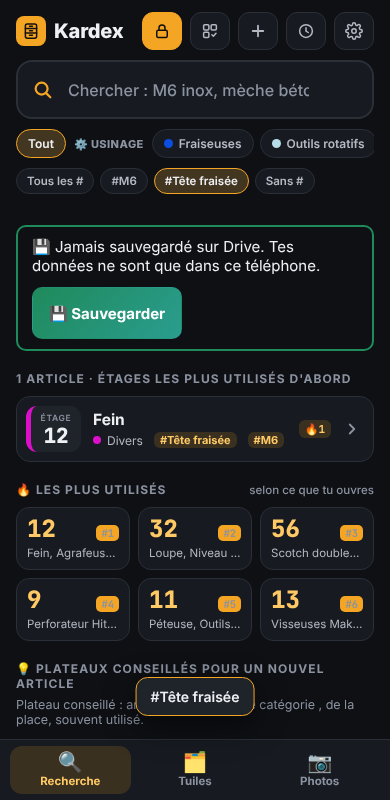
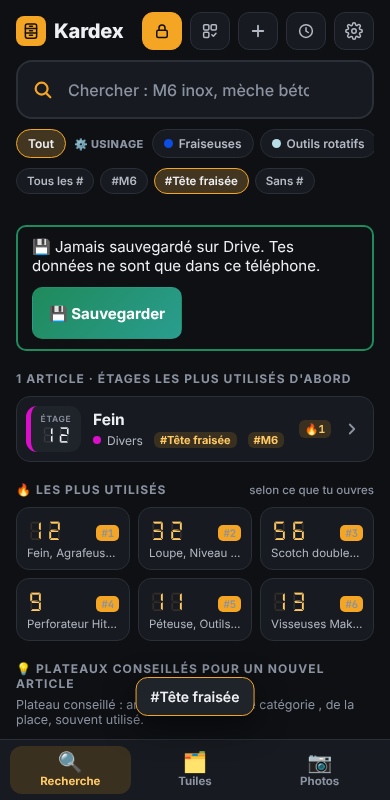
Kardex v1.6.1 : chiffres sans trait, roulette sans petit chiffre, Paramètres expliqués
- Plus de ligne au milieu des chiffres de l'afficheur (elle avait l'air de les biffer) ; meta color-scheme dark
- Roulette des Photos : le curseur n'a plus de numéro, seul le grand chiffre de la bulle reste
- Paramètres : « Remettre le fichier d'origine » retiré, « Remettre le compteur à zéro » expliqué

Claude-Session: https://claude.ai/code/session_011bhy27i19H9cwXxkZPYtg4

diff --git a/kardex/index.html b/kardex/index.html
@@ -2,6 +2,7 @@
 <html lang="fr">
 <head>
 <meta charset="utf-8">
+<meta name="color-scheme" content="dark">
 <meta name="viewport" content="width=device-width,initial-scale=1,viewport-fit=cover">
 <title>Kardex</title>
 <meta name="theme-color" content="#0E1014">
@@ -476,7 +477,6 @@ body.fpon{overflow:hidden}
 .nx.pave>span{aspect-ratio:1}
 .nx.aff .on{fill:currentColor;filter:drop-shadow(0 0 1.5px color-mix(in srgb,currentColor 75%,transparent))}
 .nx.aff .off{fill:currentColor;opacity:.12}
-.nx.aff>span::after{content:"";position:absolute;left:-5%;right:-5%;top:50%;height:1px;background:rgba(0,0,0,.55)}
 .nx>span.flap{animation:nxFlap .17s ease-in-out}
 @keyframes nxFlap{0%{transform:perspective(60px) rotateX(0)}45%{transform:perspective(60px) rotateX(-82deg);filter:brightness(2)}100%{transform:perspective(60px) rotateX(0)}}
 .tr.arr .nx{animation:nxGlow .7s ease}
@@ -490,8 +490,7 @@ body.fpon{overflow:hidden}
 @container (max-height:44px){.tr .n{inset:0 0 7px}.tr .n b{font-size:min(80cqh,40cqw)}.tr .seg{position:absolute;left:6px;right:6px;bottom:3px;height:4px}}
 .fl .nx{height:.86em}
 .tp .n b .nx{height:.9em}
-.rth .nx{height:15px}
-.rth{min-width:34px;height:26px}
+.rth{min-width:0;width:30px;height:8px;border-radius:4px}
 .rbub b .nx{height:44px}
 .fpm .ph .big .nx{height:28px}
 .sl .big b .nx{height:30px}
@@ -762,7 +761,7 @@ const Sauvegarde = (() => {
 const CATS=[[1, "Divers", "#db0fca"], [2, "Stock de Fraise", "#DDD9C3"], [4, "Tournage", "#DBEEF4"], [6, "Taraud & Alésoirs", "#E6E0EC"], [10, "Outils rotatifs", "#B7DEE8"], [13, "VIS/RONDELLES Inox", "#00B0F0"], [14, "VIS/RONDELLES Acier", "#58B600"], [15, "Visseries (bois/Torx/etc…)", "#FFFF00"], [99, "Fraiseuses", "#0C4DE4"], [100, "Consommable de montage", "#9F0EE1"], [101, "Machine à Batterie", "#09DC2C"], [102, "Machine 220V", "#3A8830"], [103, "Levage", "#08f7e7"], [105, "Pneumatique", "#3EB3D0"], [106, "Percages/Foret", "#8662ea"], [107, "Cliquets", "#ff0080"], [108, "Outils à mains", "#00FA79"], [109, "Metrologie d'atelier", "#E4F21C"]];
 const ARTS=[[119, "Laboratoire", 1, 1], [415, "M6", 13, 39], [416, "M6", 14, 49], [417, "Loupe", 1, 32], [418, "Fraises Inox", 2, 2], [419, "Fraises à Rayon", 2, 2], [420, "Fraise en \"T\"", 2, 2], [421, "Fraises Aluminium", 2, 3], [422, "Chargeur Batteries", 102, 24], [423, "M5", 14, 48], [424, "Matériel de Tournage", 4, 14], [425, "Plaquettes", 4, 6], [426, "M10", 14, 51], [427, "M12", 14, 52], [428, "M14", 14, 52], [429, "M16", 14, 28], [430, "M24", 14, 28], [431, "M8", 14, 50], [433, "Rondelles M8", 14, 53], [434, "M4", 14, 47], [435, "M3", 14, 46], [436, "M1 à M2.5", 14, 45], [437, "Plateau magnétique", 99, 15], [438, "Matériel fraiseuses", 99, 15], [439, "Equerre de fraisage", 99, 36], [440, "M5", 13, 37], [441, "M8", 13, 40], [442, "M10", 13, 41], [443, "M4", 13, 38], [444, "M4 Poulets", 13, 38], [445, "Péteuse", 105, 11], [446, "Outils pneumatiques", 105, 11], [447, "Reserve scotch", 100, 25], [448, "DMU 50", 99, 25], [449, "M12", 13, 42], [450, "M14", 13, 42], [451, "Fils ressort Inox", 13, 42], [452, "Billes INOX", 13, 42], [453, "Goupilles Inox", 100, 42], [454, "Ressorts Inox", 100, 42], [455, "M2 à M3", 13, 29], [456, "NEF 400", 4, 54], [457, "Tasseau FP4", 99, 54], [458, "Dremel® 12V", 101, 20], [459, "Dremel 220V😂", 102, 20], [460, "Thermogun", 102, 20], [462, "Crayon électrique", 102, 20], [463, "Fer à souder", 102, 24], [464, "Rivet pop", 100, 33], [465, "Tubtara", 100, 33], [466, "Tarauds M2 à M10", 6, 21], [467, "Queues de cochon🐷", 6, 21], [468, "Scotch doubles face", 100, 56], [469, "Mini-Grip", 100, 56], [470, "Rubalise", 100, 56], [471, "Elastique", 100, 56], [472, "Clinquant", 100, 58], [473, "Cuivre Béryllium", 100, 58], [474, "O-ring", 100, 30], [475, "Brides métalliques", 100, 30], [476, "Joints", 100, 30], [477, "Span-Set® ", 103, 27], [478, "Torx", 15, 44], [479, "Vis à bois", 15, 44], [480, "Clous", 15, 44], [482, "M7", 15, 26], [483, "Goupilles Acier", 15, 55], [484, "Rivets", 15, 55], [485, "Bouterolle", 15, 55], [486, "cordes", 100, 56], [487, "Ficelles", 100, 56], [488, "Visseuses Makita", 101, 13], [489, "Meuleuse", 101, 13], [490, "Scie sabre", 102, 13], [491, "Perforateur + Aspir.", 101, 13], [492, "Sauteuse", 101, 13], [493, "Talkie-Walkie", 101, 24], [494, "Vis Amercaines", 15, 26], [495, "Spécial", 15, 26], [496, "Niveau à bulle", 109, 32], [498, "Mètre à ruban", 109, 32], [499, "Chevillière", 109, 32], [500, "Fil à plomb", 109, 32], [501, "Règle 1000mm", 109, 32], [502, "Règle 1500mm", 109, 32], [503, "Camera-Thermo", 109, 32], [504, "Mèches laiton", 106, 23], [505, "Mèche longue", 106, 23], [506, "Métrique fin", 6, 17], [507, "Tarauds spéciaux", 6, 17], [508, "Tarauds", 6, 17], [509, "Alesoirs:...", 6, 22], [510, "Fraise pivots/Stock", 106, 22], [511, "Mèches à centrer", 106, 22], [512, "Vérins", 103, 27], [513, "Anneau de levage", 103, 27], [514, "Patins", 103, 27], [515, "Cordes", 103, 27], [516, "Levage palonnier", 103, 16], [517, "Patins Vert", 103, 16], [518, "Grandes sangles Span", 103, 16], [519, "Mèche NC", 106, 5], [520, "Courte de Ø1 à Ø10", 106, 5], [521, "Long de Ø1 à Ø13", 106, 4], [522, "Cles à Cliquets", 107, 7], [523, " Cles à œil", 107, 7], [524, "Cles à fourche", 107, 7], [525, "Cles dynamométriques", 107, 8], [526, "Douilles 3/4", 107, 8], [527, "Soldes de Vis", 15, 57], [528, "Rondelles ressort", 15, 57], [529, "Bellevilles", 15, 57], [530, "Seeger", 15, 57], [531, "Insert métrique", 15, 57], [532, "Pistolet silicone", 1, 31], [534, "Lève panneau", 103, 31], [535, "Fraise scie", 2, 18], [536, "Fraise Modulaire", 2, 18], [537, "Fraise Rayon", 2, 18], [538, "Fraise de forme", 2, 18], [539, "Fraise surfacer", 2, 18], [540, "Fraise Bricolage", 2, 60], [541, "Fraise scies", 2, 10], [542, "Helicoil", 100, 24], [543, "Brides électro", 100, 24], [544, "Camera Snake ", 109, 32], [545, "Seringue 500ml", 1, 59], [546, "Visseuse Placo DEWAL", 101, 13], [547, "Fein", 1, 12], [548, "Agrafeuse", 1, 12], [549, " Grignoteuse Bosch®", 1, 12], [550, "Emporte-pièces ", 1, 12], [551, "Chalumeau", 1, 12], [552, "Coupe sangle", 1, 34], [553, "Extracteur", 1, 34], [554, "Sandow", 1, 34], [555, "Arraches à billes", 1, 34], [556, "Fraise à étage", 2, 10], [557, "Fraise cloche", 2, 10], [558, "Fraise 3 tailles", 2, 10], [559, "Rodoirs", 1, 10], [560, "Tournevis", 108, 19], [561, "Clés à fourche", 108, 19], [562, "Imbus", 108, 19], [563, "Antigel", 1, 19], [564, "Pierres&limes💎", 108, 19], [565, "Ciseaux", 1, 19], [566, "Pince Monseigneur", 108, 59], [567, "Talurit", 108, 59], [568, "Pince pour cables", 108, 59], [569, "Ventouse de levage", 1, 59], [570, "Grande Hilti®", 102, 35], [571, "Hilti:accesoires", 102, 35], [572, "Tampons perceuse Hil", 102, 43], [573, " Perforateur Hitachi", 102, 9], [574, "Perceuses 220V", 102, 9], [575, "Mèche à Béton", 1, 9], [577, "Perceuse angulaire", 102, 9], [578, "Tampon chimique", 1, 9], [579, "Tête à aléser", 99, 15], [580, "Brut posage", 99, 36], [581, "Tire-fils", 1, 32], [582, "Makita", 102, 9], [583, "Multimètres ", 109, 32], [584, "Mèche pour pneu", 1, 16], [585, "Marteau pneumatique ", 105, 11], [586, "Meuleuse à air", 105, 11], [587, "Pistolet AVEX", 1, 11], [588, "Dynafile", 1, 11], [589, "Edalco", 4, 14], [590, "Pistolet SIKA", 105, 31], [591, "Scotch aluminium ", 100, 56], [592, "Niveau laser", 109, 32], [593, "Mètre laser", 109, 32], [594, "Taraud UNC", 6, 17], [596, "Micro-foret Ø0 à Ø1", 106, 5], [597, "etau", 99, 25], [598, "Mors Gressel Haut", 99, 25], [599, "Mors schunk", 99, 25], [600, "Mors Lang", 99, 25], [601, "Cliquets americains", 107, 31], [602, "Tournevis à choc", 108, 8], [603, "Colles", 100, 34], [604, "loctite", 100, 34]];
 
-const APP_VERSION="1.6",LS="kardex-v1",EXPORT_DAY="2026-10-29";
+const APP_VERSION="1.6.1",LS="kardex-v1",EXPORT_DAY="2026-10-29";
 const $=id=>document.getElementById(id);
 const esc=s=>String(s).replace(/[&<>"]/g,c=>({"&":"&amp;","<":"&lt;",">":"&gt;",'"':"&quot;"}[c]));
 const nc=ch=>ch.normalize("NFD").replace(/[̀-ͯ]/g,"").toLowerCase();
@@ -1078,7 +1077,9 @@ function renderSettings(el){
     </div>
     <div id="svPanel"></div>
     ${phPanel()}
-    <div class="acts"><button class="btn" type="button" data-act="rz">Remettre le compteur à zéro</button><button class="btn bad" type="button" data-act="reset">Remettre le fichier d'origine</button></div>
+    <div class="acts"><button class="btn" type="button" data-act="rz">Remettre le compteur à zéro</button></div>
+    <p class="note"><b>Remettre le compteur à zéro</b> : efface seulement le classement « les plus utilisés » (rangs #, 🔥, nombre d'ouvertures). Articles, étages et photos ne bougent pas.</p>
+    <p class="note">Il faut un 2e toucher pour confirmer.</p>
   </div>`;
   Sauvegarde.panneau($("svPanel"));
 }
@@ -1193,7 +1194,6 @@ document.addEventListener("click",e=>{
   if(act==="sw"){const k=b.dataset.k;st.params[k]=!st.params[k];save();render();return}
   if(act==="nb"){st.params.nbTop=+b.dataset.n;save();render();return}
   if(act==="rz"){if(b.dataset.sure){st.uses={floors:{},arts:{}};log("compteur","Compteur remis à zéro","");save();render();toast("Compteur à zéro")}else{b.dataset.sure=1;b.textContent="Sûr ? Re-toucher"}return}
-  if(act==="reset"){if(b.dataset.sure){if(Sauvegarde.remplacer(toData(fresh()),"remise du fichier d'origine")){toast("Fichier d'origine remis")}}else{b.dataset.sure=1;b.textContent="Sûr ? Une copie est gardée. Re-toucher."}return}
 });
 document.addEventListener("submit",e=>{e.preventDefault();if(e.target.id==="fEdit"&&ED){if(e.target.closest(".sl"))carEdit=null;submitEdit(e.target)}if(e.target.id==="fLot")submitLot()});
 document.addEventListener("input",e=>{if(e.target.id==="animS"){st.params.animS=+e.target.value;$("animSv").textContent=e.target.value+" s";save();return}
@@ -1652,9 +1652,9 @@ const backNeed=()=>!!(kbOpen()||document.querySelector(".cr,.vw,.mv,.tc")||panel
 function railHtml(){
   const marks=[...new Set(PH.map(p=>p.floor))].map(f=>`<i class="pm" style="top:${(f-1)/59*100}%"></i>`).join("");
   const labs=[1,10,20,30,40,50,60].map(f=>`<span style="top:${(f-1)/59*100}%">${f}</span>`).join("");
-  return `<div class="rail" id="rail" role="slider" aria-label="Roulette des étages" aria-valuemin="1" aria-valuemax="60" aria-valuenow="${carF}" tabindex="0"><div class="rin">${labs}${marks}<b class="rth" id="rth">${nx(carF)}</b></div></div>`;
+  return `<div class="rail" id="rail" role="slider" aria-label="Roulette des étages" aria-valuemin="1" aria-valuemax="60" aria-valuenow="${carF}" tabindex="0"><div class="rin">${labs}${marks}<b class="rth" id="rth" aria-hidden="true"></b></div></div>`;
 }
-function railSync(){const t=$("rth");if(!t)return;t.style.top=(carF-1)/59*100+"%";const el=t.querySelector(".nx");if(el){if(+el.dataset.nx!==carF)nxSet(el,carF)}else t.innerHTML=nx(carF);$("rail").setAttribute("aria-valuenow",carF);bubPos()}
+function railSync(){const t=$("rth");if(!t)return;t.style.top=(carF-1)/59*100+"%";$("rail").setAttribute("aria-valuenow",carF);bubPos()}
 // la bulle (grand chiffre) se place toujours à la hauteur du curseur (petit chiffre), pour qu'ils restent alignés
 function bubPos(){const b=$("rbub"),r=document.querySelector("#rail .rin");if(!b||!r||b.hidden)return;const q=r.getBoundingClientRect();b.style.top=(q.top+(carF-1)/59*q.height)+"px"}
 function bubNum(b,f){const el=b.querySelector("b .nx");if(el){if(+el.dataset.nx!==f)nxSet(el,f)}else b.querySelector("b").innerHTML=nx(f)}

diff --git a/kardex/sw.js b/kardex/sw.js
@@ -1,5 +1,5 @@
 // Kardex — fonctionnement hors ligne
-const CACHE = "kardex-v1.6";
+const CACHE = "kardex-v1.6.1";
 const CORE = ["./index.html", "./manifest.json", "./icon-192.png", "./icon-512.png", "./icon-maskable-512.png"];
 self.addEventListener("install", e => {
   e.waitUntil(caches.open(CACHE).then(c => c.addAll(CORE)));
